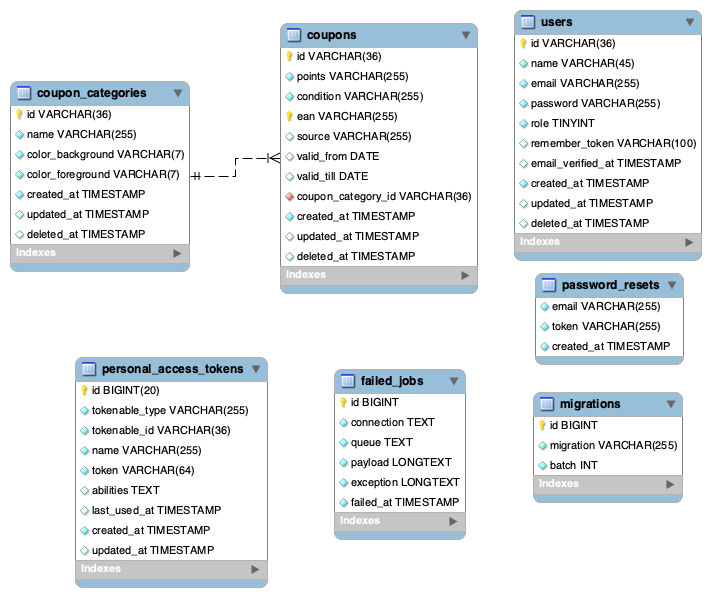
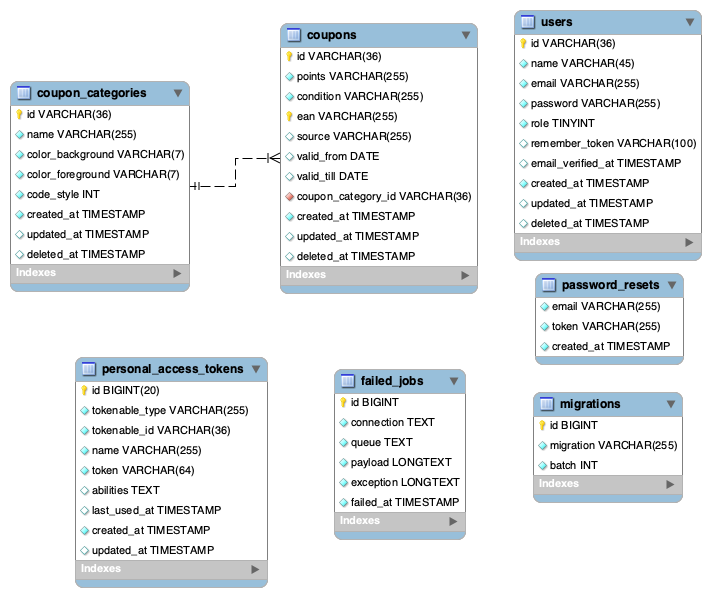
added `code_type` to set the format of the barcode in the app; removed some `coupon_categories` items from db

Changed region(s): [[0.0, 0.3015, 0.2785, 0.5126]]

diff --git a/html/database/migrations/2023_03_06_141749_add_code_style_to_coupon_categories.php b/html/database/migrations/2023_03_06_141749_add_code_style_to_coupon_categories.php
@@ -1,0 +1,65 @@
+<?php
+
+use Illuminate\Database\Migrations\Migration;
+use Illuminate\Database\Schema\Blueprint;
+use Illuminate\Support\Facades\DB;
+use Illuminate\Support\Facades\Schema;
+
+class AddCodeStyleToCouponCategories extends Migration
+{
+    /**
+     * Run the migrations.
+     *
+     * @return void
+     */
+    public function up()
+    {
+        Schema::table('coupon_categories', function (Blueprint $table) {
+            $table->integer('code_type')
+                ->default(1)
+                ->after('color_foreground');
+        });
+
+        // code_type 2
+        $ids = [
+            '0d924886-7116-4fa1-a3ef-6f0f03ac03a4',
+            '54b12eba-1431-4149-8808-d66a5a5035cf',
+            'a449ca47-ed5b-4744-be2c-6177fe0910d3',
+            'b33435c2-4f08-43bb-aca9-3a60764143c0',
+            'dd6d6e12-842f-49de-b374-2ad468e144b6'
+        ];
+        DB::table('coupon_categories')
+            ->whereIn('id', $ids)
+            ->update([
+                'code_type' => 2
+            ]);
+
+        // code_type 3
+        DB::table('coupon_categories')
+            ->where('id', '08f7d59e-f921-465b-a162-194880dfcb2f')
+            ->update([
+                'code_type' => 3
+            ]);
+
+        DB::table('coupon_categories')
+            ->whereIn('id', [
+                '601e5713-cf6b-4ac2-80a0-9201beb8fa6b',
+                '0391ec9d-fd56-4660-8457-2a0f960dba77',
+                '8e36ac58-7d9a-4d21-a91e-b4c74d5bbb05',
+                'f5727cee-03ad-42f7-8547-07afd653f6b4'
+            ])
+            ->delete();
+    }
+
+    /**
+     * Reverse the migrations.
+     *
+     * @return void
+     */
+    public function down()
+    {
+        Schema::table('coupon_categories', function (Blueprint $table) {
+            $table->dropColumn('code_type');
+        });
+    }
+}

diff --git a/html/app/Models/CouponCategory.php b/html/app/Models/CouponCategory.php
@@ -17,6 +17,7 @@ use Illuminate\Database\Eloquent\SoftDeletes;
  * @property string $logo
  * @property string $color_background
  * @property string $color_foreground
+ * @property int $code_type
  * @property DateTime $created_at
  * @property DateTime $updated_at
  * @property DateTime $deleted_at
@@ -34,6 +35,7 @@ class CouponCategory extends BaseModel
         'logo',
         'color_background',
         'color_foreground',
+        'code_type',
         'created_at',
         'updated_at',
         'deleted_at'
